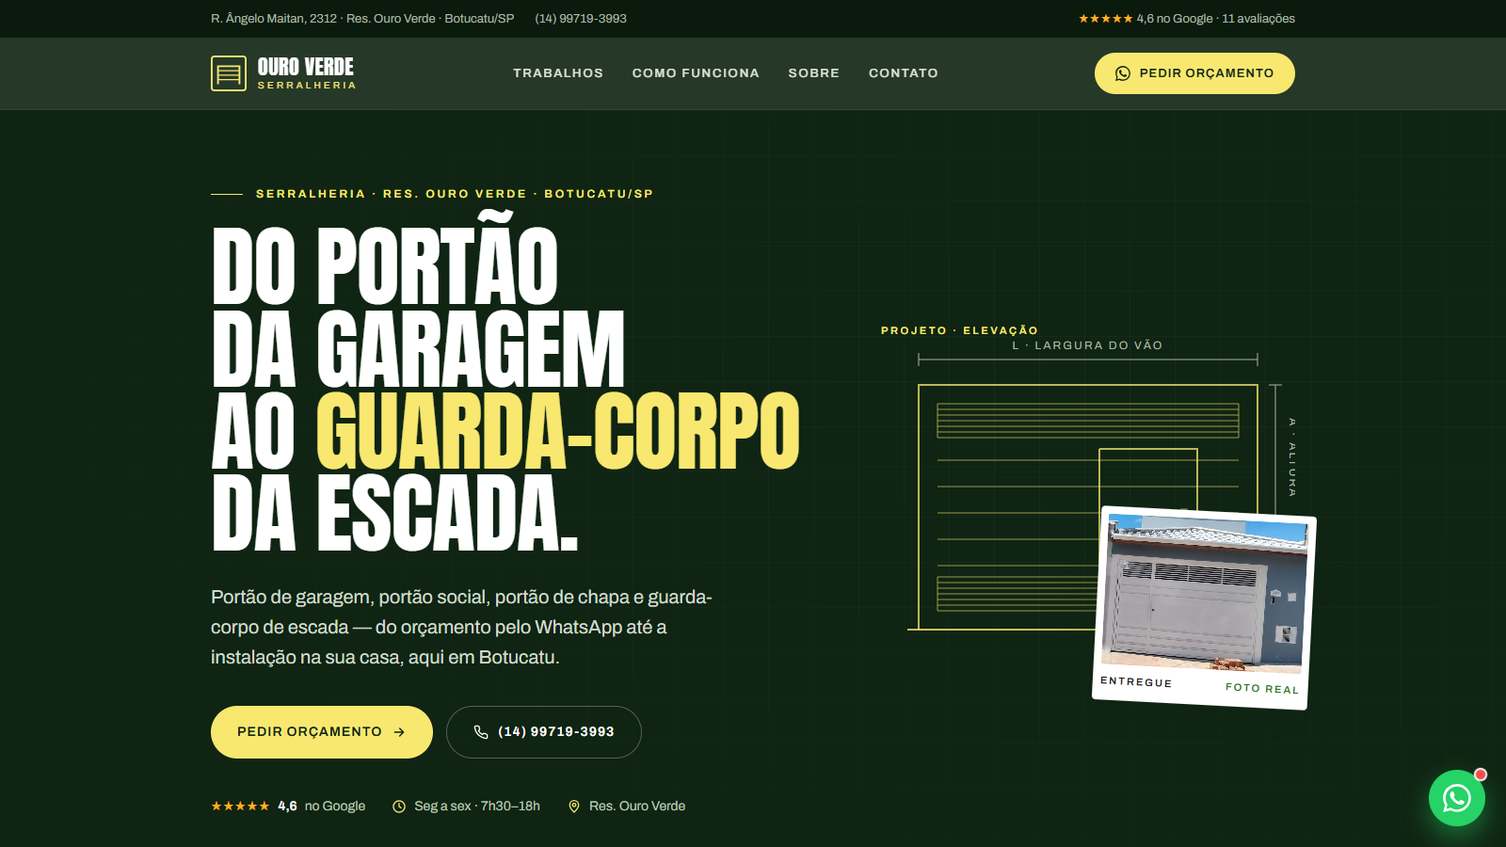
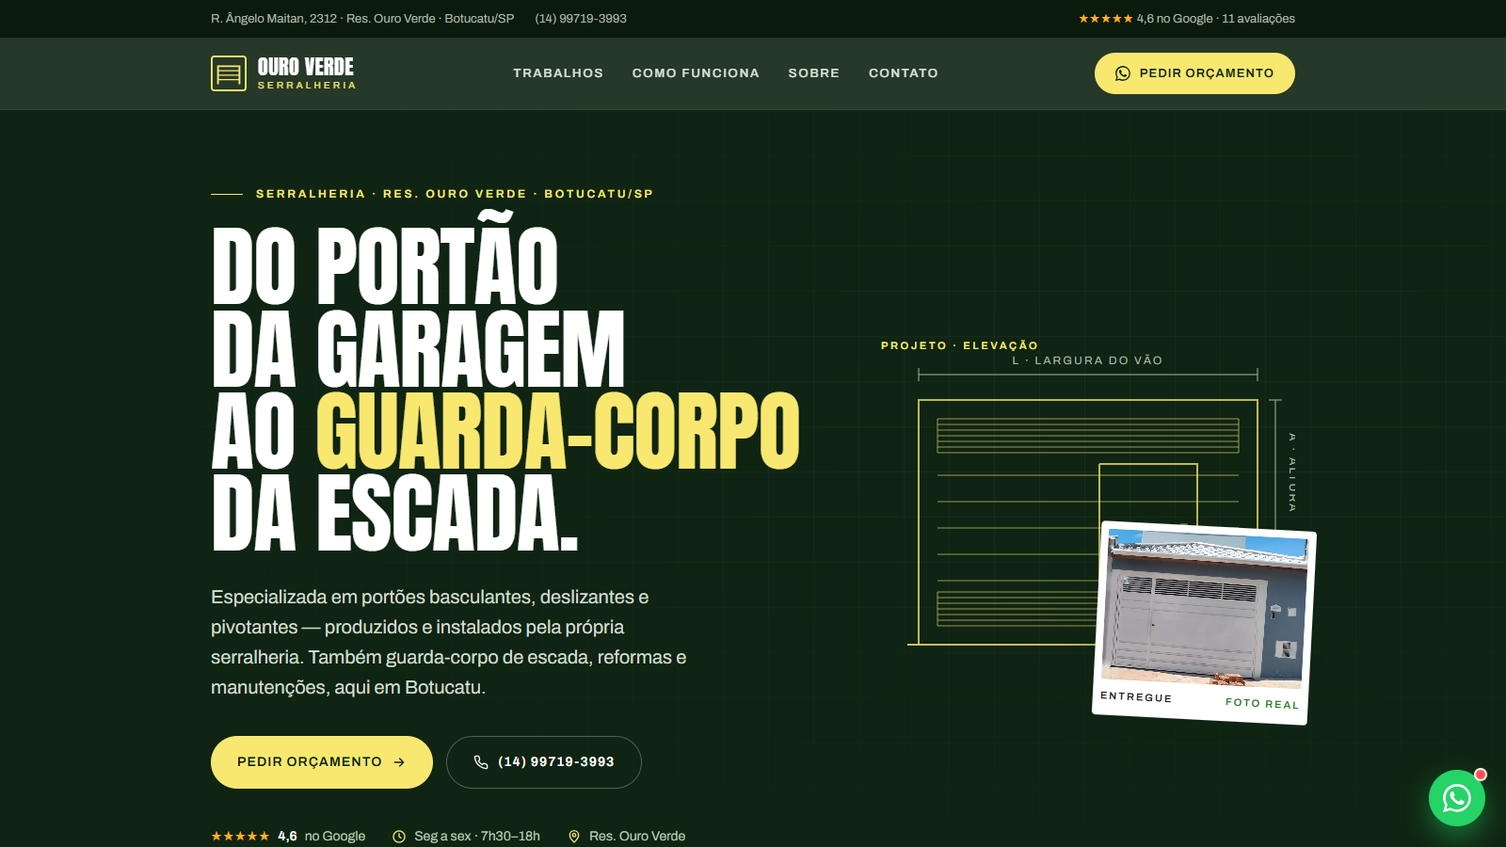
site: Serralheria Ouro Verde - servicos e link do Facebook (v1 e v2)

Changed region(s): [[0.5938, 0.3733, 0.875, 0.8711], [0.125, 0.6844, 0.4688, 0.9956]]

diff --git a/serralheria-ouro-verde-botucatu-v2/index.html b/serralheria-ouro-verde-botucatu-v2/index.html
@@ -15,16 +15,16 @@ html.site-expired body>*:not(#expiry-overlay){display:none!important;}
 <meta charset="UTF-8">
 <meta name="viewport" content="width=device-width, initial-scale=1.0">
 <title>Serralheria Ouro Verde | Portões e Guarda-corpos em Botucatu/SP</title>
-<meta name="description" content="Serralheria Ouro Verde, no Residencial Ouro Verde em Botucatu/SP: portão de garagem, portão social, portão de chapa e guarda-corpo de escada. Nota 4,6 no Google.">
+<meta name="description" content="Serralheria Ouro Verde, em Botucatu/SP: especializada em portões basculantes, deslizantes e pivotantes. Produz, instala, faz reformas e manutenções. Nota 4,6 no Google.">
 <meta property="og:title" content="Serralheria Ouro Verde | Botucatu/SP">
-<meta property="og:description" content="Portão de garagem, portão social e guarda-corpo de escada. Orçamento pelo WhatsApp. Nota 4,6 no Google.">
+<meta property="og:description" content="Portões basculantes, deslizantes e pivotantes — produção, instalação, reformas e manutenções em Botucatu. Nota 4,6 no Google.">
 <meta property="og:image" content="https://generationiahubb.github.io/sites-clientes/serralheria-ouro-verde-botucatu-v2/hero-preview.png">
 <meta property="og:url" content="https://generationiahubb.github.io/sites-clientes/serralheria-ouro-verde-botucatu-v2/">
 <meta property="og:type" content="website">
 <meta property="og:locale" content="pt_BR">
 <meta name="twitter:card" content="summary_large_image">
 <meta name="twitter:title" content="Serralheria Ouro Verde | Botucatu/SP">
-<meta name="twitter:description" content="Portão de garagem, portão social e guarda-corpo de escada em Botucatu. Nota 4,6 no Google.">
+<meta name="twitter:description" content="Portões basculantes, deslizantes e pivotantes em Botucatu. Produção, instalação, reformas e manutenções. Nota 4,6 no Google.">
 <meta name="twitter:image" content="https://generationiahubb.github.io/sites-clientes/serralheria-ouro-verde-botucatu-v2/hero-preview.png">
 <script type="application/ld+json">
 {
@@ -38,6 +38,8 @@ html.site-expired body>*:not(#expiry-overlay){display:none!important;}
   "geo":{"@type":"GeoCoordinates","latitude":-22.8459266,"longitude":-48.4633684},
   "openingHours":["Mo-Fr 07:30-11:00","Mo-Fr 13:00-18:00"],
   "areaServed":{"@type":"City","name":"Botucatu"},
+  "sameAs":["https://www.facebook.com/serralheriaouroverde.botucatu/"],
+  "description":"Serralheria especializada em portões basculantes, deslizantes e pivotantes. Produz e instala os próprios portões e faz reformas e manutenções.",
   "aggregateRating":{"@type":"AggregateRating","ratingValue":"4.6","reviewCount":"11","bestRating":"5"}
 }
 </script>
@@ -275,6 +277,9 @@ footer{background:#0A1A0D;color:var(--steel);padding:64px 0 30px;font-size:14px}
 footer h4{font-size:12px;letter-spacing:.22em;text-transform:uppercase;color:#fff;margin-bottom:16px;font-weight:600}
 footer ul{list-style:none;display:grid;gap:9px}
 footer a:hover{color:var(--gold)}
+.f-social{display:inline-flex;align-items:center;gap:10px;margin-top:18px;color:#fff;font-weight:600}
+.f-social svg{width:20px;height:20px;color:var(--gold)}
+.f-social:hover{color:var(--gold)}
 .f-bottom{padding-top:24px;display:flex;justify-content:space-between;gap:16px;flex-wrap:wrap;font-size:12px}
 
 /* whatsapp flutuante */
@@ -362,6 +367,7 @@ footer a:hover{color:var(--gold)}
     <symbol id="i-stairs" viewBox="0 0 24 24"><path fill="none" stroke="currentColor" stroke-width="2" stroke-linejoin="round" d="M3 20h5v-4h4v-4h4V8h5"/><path fill="none" stroke="currentColor" stroke-width="2" stroke-linecap="round" d="M5 13l12-9M5 13v-3M11 8.5V6M17 4v0"/></symbol>
     <symbol id="i-sheet" viewBox="0 0 24 24"><rect x="3" y="4" width="18" height="16" fill="none" stroke="currentColor" stroke-width="2"/><path fill="none" stroke="currentColor" stroke-width="2" d="M7 4v16M11 4v16M15 4v16M19 4v16"/></symbol>
     <symbol id="i-house" viewBox="0 0 24 24"><path fill="none" stroke="currentColor" stroke-width="2" stroke-linejoin="round" d="M3 11l9-7 9 7v9a1 1 0 0 1-1 1H4a1 1 0 0 1-1-1z"/><path fill="none" stroke="currentColor" stroke-width="2" d="M8 21v-6h8v6"/></symbol>
+    <symbol id="i-fb" viewBox="0 0 24 24"><path fill="currentColor" d="M13.5 21v-7.5h2.6l.4-3h-3V8.6c0-.9.3-1.5 1.5-1.5h1.6V4.4c-.3 0-1.2-.1-2.3-.1-2.3 0-3.8 1.4-3.8 3.9v2.3H8v3h2.5V21z"/></symbol>
     <symbol id="i-wa" viewBox="0 0 24 24"><path fill="currentColor" d="M17.5 14.4c-.3-.1-1.8-.9-2-1-.3-.1-.5-.1-.7.1-.2.3-.8 1-.9 1.2-.2.2-.3.2-.6.1-.3-.1-1.3-.5-2.4-1.5-.9-.8-1.5-1.8-1.7-2.1-.2-.3 0-.5.1-.6l.4-.5c.2-.2.2-.3.3-.5.1-.2 0-.4 0-.5l-.9-2.2c-.2-.6-.5-.5-.7-.5h-.6c-.2 0-.5.1-.8.4-.3.3-1 1-1 2.5s1.1 2.9 1.2 3.1c.1.2 2.1 3.2 5.1 4.5.7.3 1.3.5 1.7.6.7.2 1.4.2 1.9.1.6-.1 1.8-.7 2-1.4.2-.7.2-1.3.2-1.4-.1-.2-.3-.3-.6-.4zM12 21.8c-1.8 0-3.5-.5-5-1.4l-.4-.2-3.7 1 1-3.6-.2-.4A9.8 9.8 0 1 1 12 21.8zm8.4-18.2A11.8 11.8 0 0 0 1.8 17.9L.1 24l6.3-1.6A11.8 11.8 0 0 0 23.8 12c0-3.2-1.2-6.1-3.4-8.4z"/></symbol>
   </defs>
 </svg>
@@ -398,7 +404,7 @@ footer a:hover{color:var(--gold)}
     <div class="hero-copy reveal">
       <span class="eyebrow light">Serralheria · Res. Ouro Verde · Botucatu/SP</span>
       <h1>Do portão<br>da garagem<br>ao <span class="hl">guarda-corpo</span><br>da escada.</h1>
-      <p class="lead">Portão de garagem, portão social, portão de chapa e guarda-corpo de escada — do orçamento pelo WhatsApp até a instalação na sua casa, aqui em Botucatu.</p>
+      <p class="lead">Especializada em portões basculantes, deslizantes e pivotantes — produzidos e instalados pela própria serralheria. Também guarda-corpo de escada, reformas e manutenções, aqui em Botucatu.</p>
       <div class="hero-ctas">
         <a href="#orcamento" class="btn btn-gold">Pedir orçamento <svg><use href="#i-arrow"/></svg></a>
         <a href="tel:+5514997193993" class="btn btn-line"><svg><use href="#i-phone"/></svg>(14) 99719-3993</a>
@@ -456,11 +462,12 @@ footer a:hover{color:var(--gold)}
         <div class="field">
           <label for="servico">O que você precisa?</label>
           <select id="servico">
-            <option value="um portão de garagem">Portão de garagem</option>
+            <option value="um portão basculante">Portão basculante</option>
+            <option value="um portão deslizante">Portão deslizante</option>
+            <option value="um portão pivotante">Portão pivotante</option>
             <option value="um portão social">Portão social</option>
-            <option value="portão de garagem e portão social">Portão de garagem + portão social</option>
-            <option value="um portão de chapa">Portão de chapa</option>
             <option value="um guarda-corpo ou corrimão de escada">Guarda-corpo ou corrimão de escada</option>
+            <option value="reforma ou manutenção de portão">Reforma ou manutenção de portão</option>
             <option value="outro serviço de serralheria">Outro serviço de serralheria</option>
           </select>
         </div>
@@ -468,7 +475,7 @@ footer a:hover{color:var(--gold)}
           <label for="situacao">Como está a sua obra?</label>
           <select id="situacao">
             <option value="Minha obra está em andamento.">Obra em andamento</option>
-            <option value="A casa já está pronta e quero trocar ou instalar.">Casa pronta — quero trocar ou instalar</option>
+            <option value="A casa já está pronta e quero trocar, instalar ou reformar.">Casa pronta — trocar, instalar ou reformar</option>
             <option value="Ainda estou planejando.">Ainda estou planejando</option>
           </select>
         </div>
@@ -488,10 +495,10 @@ footer a:hover{color:var(--gold)}
     </div>
     <div class="steps-grid reveal-stagger">
       <div class="steps-line" aria-hidden="true"><i style="left:0"></i><i style="left:33%"></i><i style="left:66%"></i><i style="right:0"></i></div>
-      <article class="step-card"><div class="step-num">01</div><h3>Chame no WhatsApp</h3><p>Diga o que precisa: portão, portão social ou guarda-corpo.</p></article>
+      <article class="step-card"><div class="step-num">01</div><h3>Chame no WhatsApp</h3><p>Diga o que precisa: portão basculante, deslizante, pivotante, guarda-corpo ou manutenção.</p></article>
       <article class="step-card"><div class="step-num">02</div><h3>Mostre o espaço</h3><p>Uma foto do vão e as medidas aproximadas já ajudam a orçar.</p></article>
       <article class="step-card"><div class="step-num">03</div><h3>Combine o prazo</h3><p>Serviço e prazo acertados antes de começar — e cumpridos.</p></article>
-      <article class="step-card"><div class="step-num">04</div><h3>Instalação</h3><p>A peça pronta, instalada na sua casa em Botucatu.</p></article>
+      <article class="step-card"><div class="step-num">04</div><h3>Produção e instalação</h3><p>A serralheria produz o portão e instala na sua casa em Botucatu.</p></article>
     </div>
   </div>
 </section>
@@ -560,10 +567,11 @@ footer a:hover{color:var(--gold)}
     <div class="reveal">
       <span class="eyebrow">Sobre</span>
       <h2>Serralheria de bairro,<br>trabalho de casa pronta.</h2>
-      <p>A Serralheria Ouro Verde fica na Rua Ângelo Maitan, no Residencial Ouro Verde, em Botucatu. Faz portões e guarda-corpos para casas da cidade — da obra que ainda está no tijolo à casa pronta que precisa trocar o portão.</p>
+      <p>A Serralheria Ouro Verde fica na Rua Ângelo Maitan, no Residencial Ouro Verde, em Botucatu. É especializada em portões basculantes, deslizantes e pivotantes: produz e instala os próprios portões e também faz reformas e manutenções — da obra que ainda está no tijolo à casa pronta que precisa trocar ou consertar o portão.</p>
       <ul class="checks">
-        <li><i><svg><use href="#i-check"/></svg></i>Portão de garagem e portão social</li>
-        <li><i><svg><use href="#i-check"/></svg></i>Portão de chapa</li>
+        <li><i><svg><use href="#i-check"/></svg></i>Portões basculantes, deslizantes e pivotantes</li>
+        <li><i><svg><use href="#i-check"/></svg></i>Produção e instalação próprias</li>
+        <li><i><svg><use href="#i-check"/></svg></i>Reformas e manutenções de portão</li>
         <li><i><svg><use href="#i-check"/></svg></i>Guarda-corpo e corrimão de escada</li>
         <li><i><svg><use href="#i-check"/></svg></i>Orçamento pelo WhatsApp, de segunda a sexta</li>
       </ul>
@@ -585,6 +593,7 @@ footer a:hover{color:var(--gold)}
       <div class="c-actions">
         <a href="#" class="btn btn-gold js-wa"><svg><use href="#i-wa"/></svg>WhatsApp</a>
         <a href="https://www.google.com/maps/dir/?api=1&destination=-22.8459266,-48.4633684" target="_blank" rel="noopener" class="btn btn-line">Como chegar</a>
+        <a href="https://www.facebook.com/serralheriaouroverde.botucatu/" target="_blank" rel="noopener" class="btn btn-line"><svg><use href="#i-fb"/></svg>Facebook</a>
       </div>
     </div>
     <div class="map reveal">
@@ -607,11 +616,12 @@ footer a:hover{color:var(--gold)}
     <div class="f-grid">
       <div>
         <a href="#top" class="logo" style="margin-bottom:18px"><svg class="logo-mark" viewBox="0 0 40 40" aria-hidden="true"><rect x="1" y="1" width="38" height="38" rx="3" fill="none" stroke="#F8E870" stroke-width="2"/><path d="M8 32V12h24v20" fill="none" stroke="#F8E870" stroke-width="2"/><path d="M8 17h24M8 22h24M8 27h24" stroke="#F8E870" stroke-width="1.4"/></svg><span class="logo-txt"><b>Ouro Verde</b><small>Serralheria</small></span></a>
-        <p>Portão de garagem, portão social, portão de chapa e guarda-corpo de escada em Botucatu/SP.</p>
+        <p>Portões basculantes, deslizantes e pivotantes, guarda-corpos, reformas e manutenções em Botucatu/SP.</p>
+        <a href="https://www.facebook.com/serralheriaouroverde.botucatu/" target="_blank" rel="noopener" class="f-social"><svg><use href="#i-fb"/></svg>Siga no Facebook</a>
       </div>
       <div>
         <h4>Serviços</h4>
-        <ul><li>Portão de garagem</li><li>Portão social</li><li>Portão de chapa</li><li>Guarda-corpo e corrimão</li></ul>
+        <ul><li>Portão basculante</li><li>Portão deslizante</li><li>Portão pivotante</li><li>Portão social</li><li>Guarda-corpo e corrimão</li><li>Reformas e manutenções</li></ul>
       </div>
       <div>
         <h4>Contato</h4>
@@ -619,6 +629,7 @@ footer a:hover{color:var(--gold)}
           <li><a href="tel:+5514997193993">(14) 99719-3993</a></li>
           <li>R. Ângelo Maitan, 2312 — Res. Ouro Verde, Botucatu/SP</li>
           <li>Seg a sex · 7h30–11h · 13h–18h</li>
+          <li><a href="https://www.facebook.com/serralheriaouroverde.botucatu/" target="_blank" rel="noopener">Facebook</a></li>
         </ul>
       </div>
     </div>

diff --git a/serralheria-ouro-verde-botucatu/index.html b/serralheria-ouro-verde-botucatu/index.html
@@ -15,16 +15,16 @@ html.site-expired body>*:not(#expiry-overlay){display:none!important;}
 <meta charset="UTF-8">
 <meta name="viewport" content="width=device-width, initial-scale=1.0">
 <title>Serralheria Ouro Verde | Portões e Guarda-corpos em Botucatu/SP</title>
-<meta name="description" content="Serralheria Ouro Verde, no Residencial Ouro Verde em Botucatu/SP: portão de garagem, portão social, portão de chapa e guarda-corpo de escada. Nota 4,6 no Google.">
+<meta name="description" content="Serralheria Ouro Verde, em Botucatu/SP: especializada em portões basculantes, deslizantes e pivotantes. Produz, instala, faz reformas e manutenções. Nota 4,6 no Google.">
 <meta property="og:title" content="Serralheria Ouro Verde | Botucatu/SP">
-<meta property="og:description" content="Portão de garagem, portão social e guarda-corpo de escada. Orçamento pelo WhatsApp. Nota 4,6 no Google.">
+<meta property="og:description" content="Portões basculantes, deslizantes e pivotantes — produção, instalação, reformas e manutenções em Botucatu. Nota 4,6 no Google.">
 <meta property="og:image" content="https://generationiahubb.github.io/sites-clientes/serralheria-ouro-verde-botucatu/hero-preview.png">
 <meta property="og:url" content="https://generationiahubb.github.io/sites-clientes/serralheria-ouro-verde-botucatu/">
 <meta property="og:type" content="website">
 <meta property="og:locale" content="pt_BR">
 <meta name="twitter:card" content="summary_large_image">
 <meta name="twitter:title" content="Serralheria Ouro Verde | Botucatu/SP">
-<meta name="twitter:description" content="Portão de garagem, portão social e guarda-corpo de escada em Botucatu. Nota 4,6 no Google.">
+<meta name="twitter:description" content="Portões basculantes, deslizantes e pivotantes em Botucatu. Produção, instalação, reformas e manutenções. Nota 4,6 no Google.">
 <meta name="twitter:image" content="https://generationiahubb.github.io/sites-clientes/serralheria-ouro-verde-botucatu/hero-preview.png">
 <script type="application/ld+json">
 {
@@ -38,6 +38,8 @@ html.site-expired body>*:not(#expiry-overlay){display:none!important;}
   "geo":{"@type":"GeoCoordinates","latitude":-22.8459266,"longitude":-48.4633684},
   "openingHours":["Mo-Fr 07:30-11:00","Mo-Fr 13:00-18:00"],
   "areaServed":{"@type":"City","name":"Botucatu"},
+  "sameAs":["https://www.facebook.com/serralheriaouroverde.botucatu/"],
+  "description":"Serralheria especializada em portões basculantes, deslizantes e pivotantes. Produz e instala os próprios portões e faz reformas e manutenções.",
   "aggregateRating":{"@type":"AggregateRating","ratingValue":"4.6","reviewCount":"11","bestRating":"5"}
 }
 </script>
@@ -275,6 +277,9 @@ footer{background:#0C0C09;color:var(--steel);padding:64px 0 30px;font-size:14px}
 footer h4{font-size:12px;letter-spacing:.22em;text-transform:uppercase;color:#fff;margin-bottom:16px;font-weight:600}
 footer ul{list-style:none;display:grid;gap:9px}
 footer a:hover{color:var(--gold)}
+.f-social{display:inline-flex;align-items:center;gap:10px;margin-top:18px;color:#fff;font-weight:600}
+.f-social svg{width:20px;height:20px;color:var(--gold)}
+.f-social:hover{color:var(--gold)}
 .f-bottom{padding-top:24px;display:flex;justify-content:space-between;gap:16px;flex-wrap:wrap;font-size:12px}
 
 /* whatsapp flutuante */
@@ -362,6 +367,7 @@ footer a:hover{color:var(--gold)}
     <symbol id="i-stairs" viewBox="0 0 24 24"><path fill="none" stroke="currentColor" stroke-width="2" stroke-linejoin="round" d="M3 20h5v-4h4v-4h4V8h5"/><path fill="none" stroke="currentColor" stroke-width="2" stroke-linecap="round" d="M5 13l12-9M5 13v-3M11 8.5V6M17 4v0"/></symbol>
     <symbol id="i-sheet" viewBox="0 0 24 24"><rect x="3" y="4" width="18" height="16" fill="none" stroke="currentColor" stroke-width="2"/><path fill="none" stroke="currentColor" stroke-width="2" d="M7 4v16M11 4v16M15 4v16M19 4v16"/></symbol>
     <symbol id="i-house" viewBox="0 0 24 24"><path fill="none" stroke="currentColor" stroke-width="2" stroke-linejoin="round" d="M3 11l9-7 9 7v9a1 1 0 0 1-1 1H4a1 1 0 0 1-1-1z"/><path fill="none" stroke="currentColor" stroke-width="2" d="M8 21v-6h8v6"/></symbol>
+    <symbol id="i-fb" viewBox="0 0 24 24"><path fill="currentColor" d="M13.5 21v-7.5h2.6l.4-3h-3V8.6c0-.9.3-1.5 1.5-1.5h1.6V4.4c-.3 0-1.2-.1-2.3-.1-2.3 0-3.8 1.4-3.8 3.9v2.3H8v3h2.5V21z"/></symbol>
     <symbol id="i-wa" viewBox="0 0 24 24"><path fill="currentColor" d="M17.5 14.4c-.3-.1-1.8-.9-2-1-.3-.1-.5-.1-.7.1-.2.3-.8 1-.9 1.2-.2.2-.3.2-.6.1-.3-.1-1.3-.5-2.4-1.5-.9-.8-1.5-1.8-1.7-2.1-.2-.3 0-.5.1-.6l.4-.5c.2-.2.2-.3.3-.5.1-.2 0-.4 0-.5l-.9-2.2c-.2-.6-.5-.5-.7-.5h-.6c-.2 0-.5.1-.8.4-.3.3-1 1-1 2.5s1.1 2.9 1.2 3.1c.1.2 2.1 3.2 5.1 4.5.7.3 1.3.5 1.7.6.7.2 1.4.2 1.9.1.6-.1 1.8-.7 2-1.4.2-.7.2-1.3.2-1.4-.1-.2-.3-.3-.6-.4zM12 21.8c-1.8 0-3.5-.5-5-1.4l-.4-.2-3.7 1 1-3.6-.2-.4A9.8 9.8 0 1 1 12 21.8zm8.4-18.2A11.8 11.8 0 0 0 1.8 17.9L.1 24l6.3-1.6A11.8 11.8 0 0 0 23.8 12c0-3.2-1.2-6.1-3.4-8.4z"/></symbol>
   </defs>
 </svg>
@@ -398,7 +404,7 @@ footer a:hover{color:var(--gold)}
     <div class="hero-copy reveal">
       <span class="eyebrow light">Serralheria · Res. Ouro Verde · Botucatu/SP</span>
       <h1>Do portão<br>da garagem<br>ao <span class="hl">guarda-corpo</span><br>da escada.</h1>
-      <p class="lead">Portão de garagem, portão social, portão de chapa e guarda-corpo de escada — do orçamento pelo WhatsApp até a instalação na sua casa, aqui em Botucatu.</p>
+      <p class="lead">Especializada em portões basculantes, deslizantes e pivotantes — produzidos e instalados pela própria serralheria. Também guarda-corpo de escada, reformas e manutenções, aqui em Botucatu.</p>
       <div class="hero-ctas">
         <a href="#orcamento" class="btn btn-gold">Pedir orçamento <svg><use href="#i-arrow"/></svg></a>
         <a href="tel:+5514997193993" class="btn btn-line"><svg><use href="#i-phone"/></svg>(14) 99719-3993</a>
@@ -456,11 +462,12 @@ footer a:hover{color:var(--gold)}
         <div class="field">
           <label for="servico">O que você precisa?</label>
           <select id="servico">
-            <option value="um portão de garagem">Portão de garagem</option>
+            <option value="um portão basculante">Portão basculante</option>
+            <option value="um portão deslizante">Portão deslizante</option>
+            <option value="um portão pivotante">Portão pivotante</option>
             <option value="um portão social">Portão social</option>
-            <option value="portão de garagem e portão social">Portão de garagem + portão social</option>
-            <option value="um portão de chapa">Portão de chapa</option>
             <option value="um guarda-corpo ou corrimão de escada">Guarda-corpo ou corrimão de escada</option>
+            <option value="reforma ou manutenção de portão">Reforma ou manutenção de portão</option>
             <option value="outro serviço de serralheria">Outro serviço de serralheria</option>
           </select>
         </div>
@@ -468,7 +475,7 @@ footer a:hover{color:var(--gold)}
           <label for="situacao">Como está a sua obra?</label>
           <select id="situacao">
             <option value="Minha obra está em andamento.">Obra em andamento</option>
-            <option value="A casa já está pronta e quero trocar ou instalar.">Casa pronta — quero trocar ou instalar</option>
+            <option value="A casa já está pronta e quero trocar, instalar ou reformar.">Casa pronta — trocar, instalar ou reformar</option>
             <option value="Ainda estou planejando.">Ainda estou planejando</option>
           </select>
         </div>
@@ -488,10 +495,10 @@ footer a:hover{color:var(--gold)}
     </div>
     <div class="steps-grid reveal-stagger">
       <div class="steps-line" aria-hidden="true"><i style="left:0"></i><i style="left:33%"></i><i style="left:66%"></i><i style="right:0"></i></div>
-      <article class="step-card"><div class="step-num">01</div><h3>Chame no WhatsApp</h3><p>Diga o que precisa: portão, portão social ou guarda-corpo.</p></article>
+      <article class="step-card"><div class="step-num">01</div><h3>Chame no WhatsApp</h3><p>Diga o que precisa: portão basculante, deslizante, pivotante, guarda-corpo ou manutenção.</p></article>
       <article class="step-card"><div class="step-num">02</div><h3>Mostre o espaço</h3><p>Uma foto do vão e as medidas aproximadas já ajudam a orçar.</p></article>
       <article class="step-card"><div class="step-num">03</div><h3>Combine o prazo</h3><p>Serviço e prazo acertados antes de começar — e cumpridos.</p></article>
-      <article class="step-card"><div class="step-num">04</div><h3>Instalação</h3><p>A peça pronta, instalada na sua casa em Botucatu.</p></article>
+      <article class="step-card"><div class="step-num">04</div><h3>Produção e instalação</h3><p>A serralheria produz o portão e instala na sua casa em Botucatu.</p></article>
     </div>
   </div>
 </section>
@@ -560,10 +567,11 @@ footer a:hover{color:var(--gold)}
     <div class="reveal">
       <span class="eyebrow">Sobre</span>
       <h2>Serralheria de bairro,<br>trabalho de casa pronta.</h2>
-      <p>A Serralheria Ouro Verde fica na Rua Ângelo Maitan, no Residencial Ouro Verde, em Botucatu. Faz portões e guarda-corpos para casas da cidade — da obra que ainda está no tijolo à casa pronta que precisa trocar o portão.</p>
+      <p>A Serralheria Ouro Verde fica na Rua Ângelo Maitan, no Residencial Ouro Verde, em Botucatu. É especializada em portões basculantes, deslizantes e pivotantes: produz e instala os próprios portões e também faz reformas e manutenções — da obra que ainda está no tijolo à casa pronta que precisa trocar ou consertar o portão.</p>
       <ul class="checks">
-        <li><i><svg><use href="#i-check"/></svg></i>Portão de garagem e portão social</li>
-        <li><i><svg><use href="#i-check"/></svg></i>Portão de chapa</li>
+        <li><i><svg><use href="#i-check"/></svg></i>Portões basculantes, deslizantes e pivotantes</li>
+        <li><i><svg><use href="#i-check"/></svg></i>Produção e instalação próprias</li>
+        <li><i><svg><use href="#i-check"/></svg></i>Reformas e manutenções de portão</li>
         <li><i><svg><use href="#i-check"/></svg></i>Guarda-corpo e corrimão de escada</li>
         <li><i><svg><use href="#i-check"/></svg></i>Orçamento pelo WhatsApp, de segunda a sexta</li>
       </ul>
@@ -585,6 +593,7 @@ footer a:hover{color:var(--gold)}
       <div class="c-actions">
         <a href="#" class="btn btn-gold js-wa"><svg><use href="#i-wa"/></svg>WhatsApp</a>
         <a href="https://www.google.com/maps/dir/?api=1&destination=-22.8459266,-48.4633684" target="_blank" rel="noopener" class="btn btn-line">Como chegar</a>
+        <a href="https://www.facebook.com/serralheriaouroverde.botucatu/" target="_blank" rel="noopener" class="btn btn-line"><svg><use href="#i-fb"/></svg>Facebook</a>
       </div>
     </div>
     <div class="map reveal">
@@ -607,11 +616,12 @@ footer a:hover{color:var(--gold)}
     <div class="f-grid">
       <div>
         <a href="#top" class="logo" style="margin-bottom:18px"><svg class="logo-mark" viewBox="0 0 40 40" aria-hidden="true"><rect x="1" y="1" width="38" height="38" rx="3" fill="none" stroke="#E0A526" stroke-width="2"/><path d="M8 32V12h24v20" fill="none" stroke="#E0A526" stroke-width="2"/><path d="M8 17h24M8 22h24M8 27h24" stroke="#E0A526" stroke-width="1.4"/></svg><span class="logo-txt"><b>Ouro Verde</b><small>Serralheria</small></span></a>
-        <p>Portão de garagem, portão social, portão de chapa e guarda-corpo de escada em Botucatu/SP.</p>
+        <p>Portões basculantes, deslizantes e pivotantes, guarda-corpos, reformas e manutenções em Botucatu/SP.</p>
+        <a href="https://www.facebook.com/serralheriaouroverde.botucatu/" target="_blank" rel="noopener" class="f-social"><svg><use href="#i-fb"/></svg>Siga no Facebook</a>
       </div>
       <div>
         <h4>Serviços</h4>
-        <ul><li>Portão de garagem</li><li>Portão social</li><li>Portão de chapa</li><li>Guarda-corpo e corrimão</li></ul>
+        <ul><li>Portão basculante</li><li>Portão deslizante</li><li>Portão pivotante</li><li>Portão social</li><li>Guarda-corpo e corrimão</li><li>Reformas e manutenções</li></ul>
       </div>
       <div>
         <h4>Contato</h4>
@@ -619,6 +629,7 @@ footer a:hover{color:var(--gold)}
           <li><a href="tel:+5514997193993">(14) 99719-3993</a></li>
           <li>R. Ângelo Maitan, 2312 — Res. Ouro Verde, Botucatu/SP</li>
           <li>Seg a sex · 7h30–11h · 13h–18h</li>
+          <li><a href="https://www.facebook.com/serralheriaouroverde.botucatu/" target="_blank" rel="noopener">Facebook</a></li>
         </ul>
       </div>
     </div>
